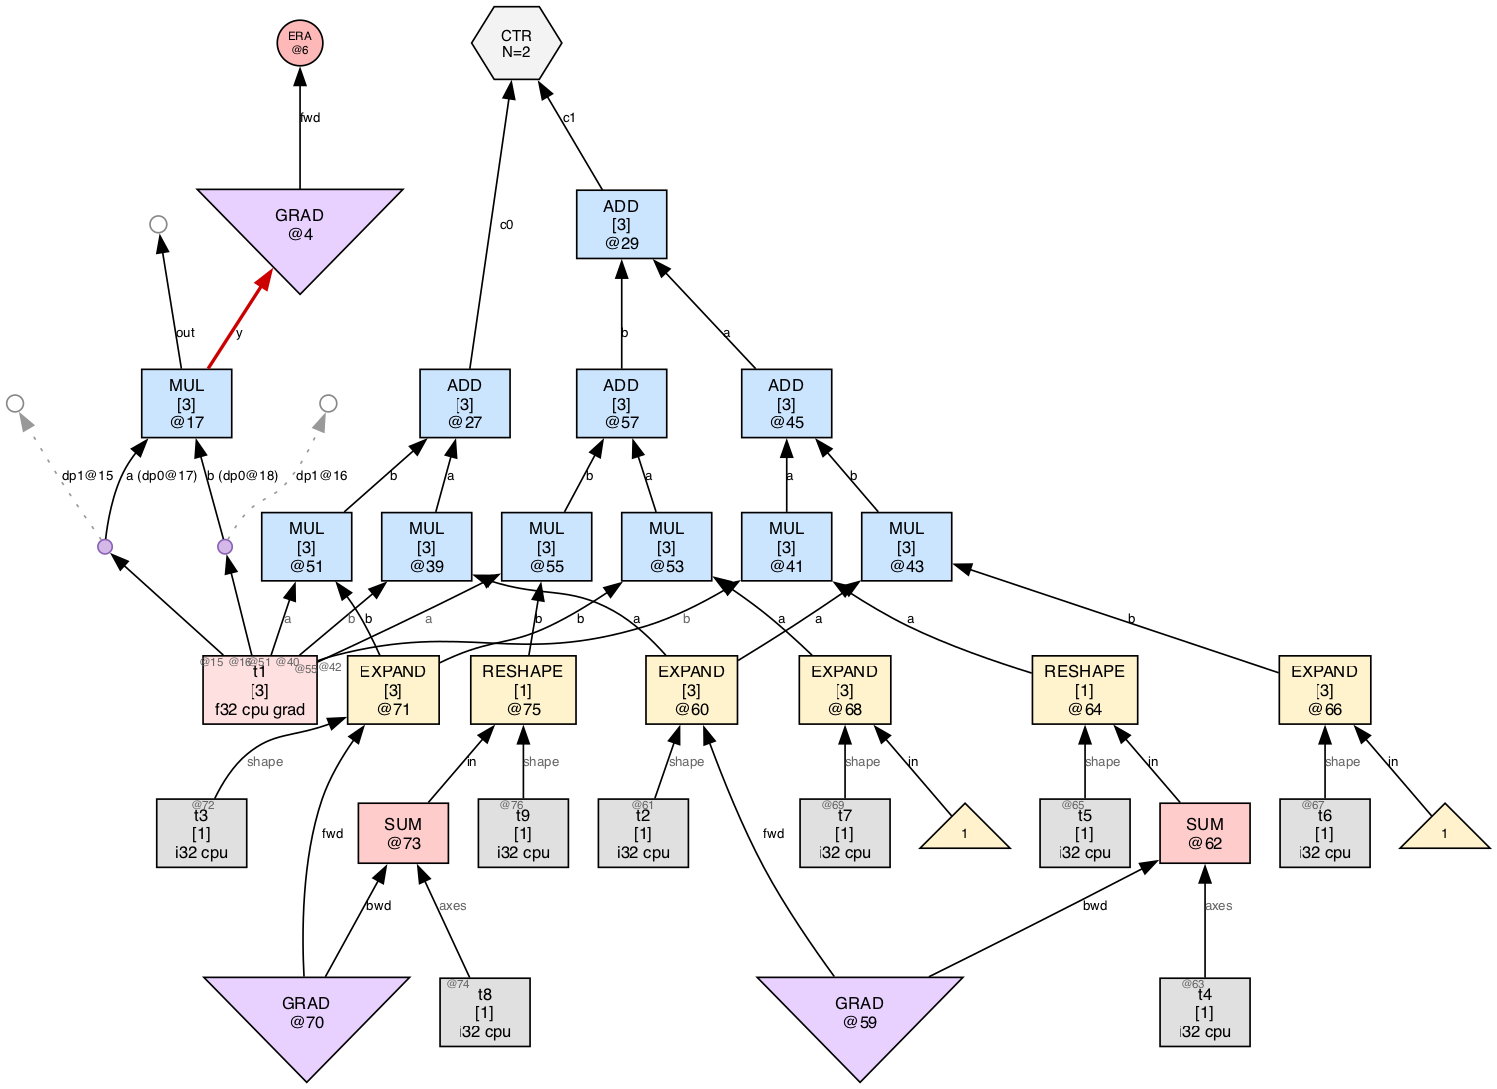
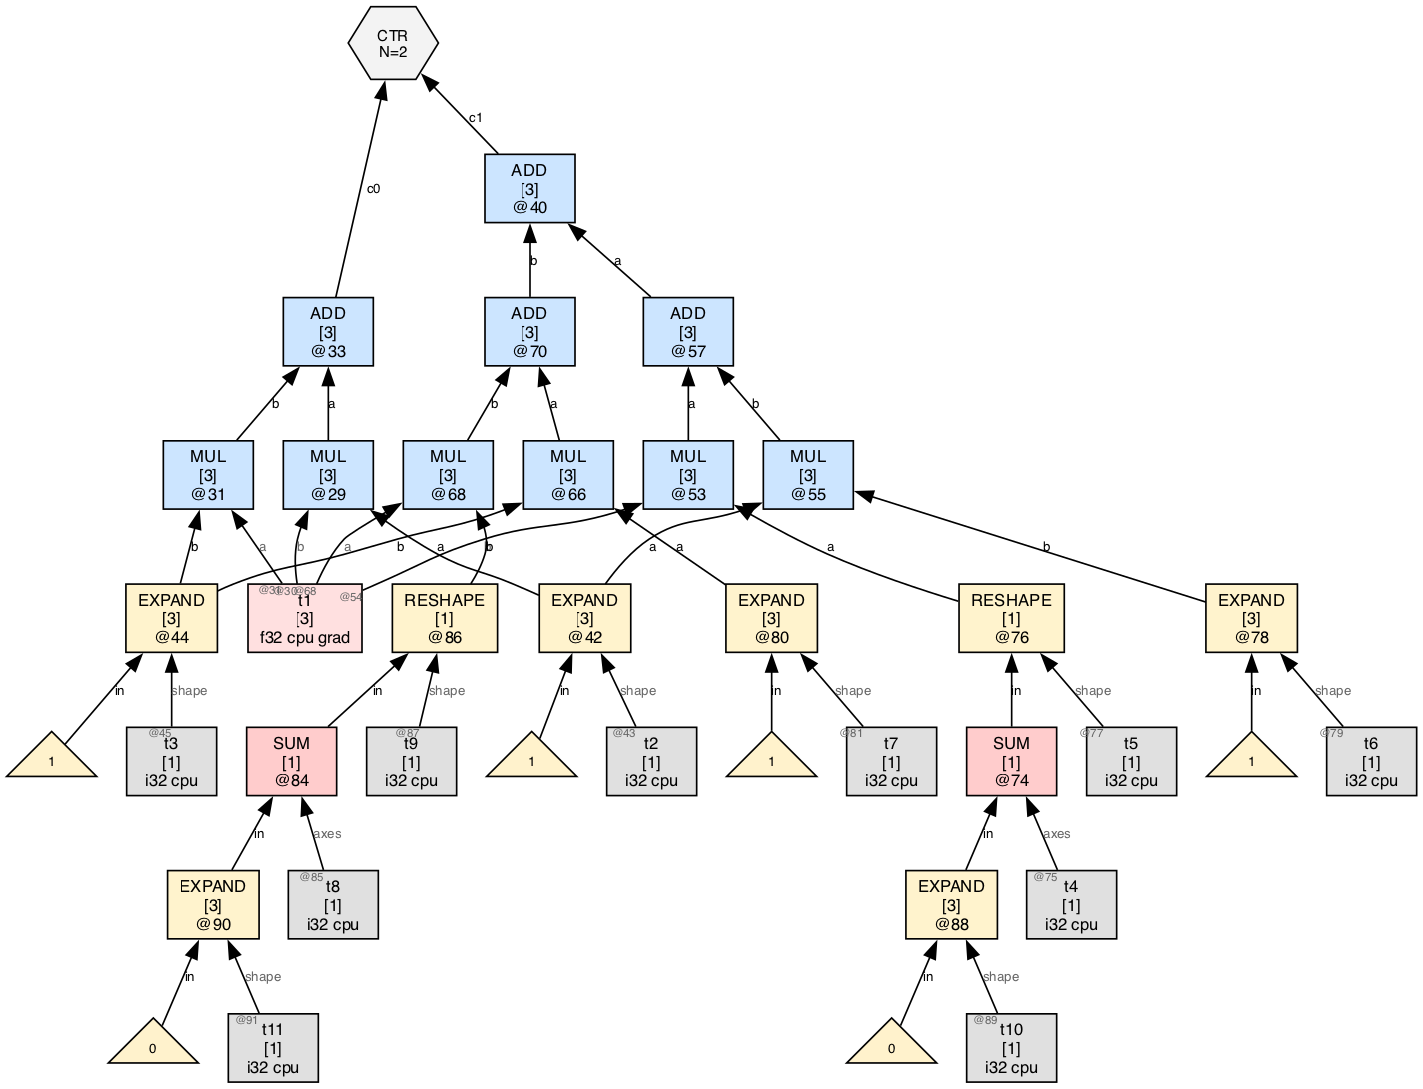
grad: UOP_GRAD2 NUM-constant rule + migrate second_derivative test
- Added rule: GRAD2(NUM(c), t) -> EXPAND(NUM(0), t.shape).  Needed for
  composed higher-order grad where inner results reduce to NUM.
- test_second_derivative now constructs via thvm_grad_u instead of
  thvm_grad_pair_target.  Post-sweep fully reduces (no residual
  GRAD2 nodes; d2(t*t)/dt2 = 2).

diff --git a/test/test_grad_rules.m b/test/test_grad_rules.m
@@ -292,17 +292,15 @@ static int test_second_derivative(void) {
     thvm_dup(ctx, thvm_fresh_label(ctx), a, &a0, &a1);
     Term y = thvm_op(ctx, UOP_MUL, a0, a1);
 
-    Term fwd1, bwd1;
-    thvm_grad_pair_target(ctx, a, y, &fwd1, &bwd1);
-    thvm_spawn_detached_era(ctx, fwd1);
-
-    Term fwd2, bwd2;
-    thvm_grad_pair_target(ctx, a, bwd1, &fwd2, &bwd2);
-
-    Term root = thvm_ctr(ctx, (Term[]){fwd2, bwd2}, 2);
+    // First derivative: GRAD2(y, a). Second derivative: GRAD2(first, a).
+    Term bwd1 = thvm_grad_u(ctx, y, a);
+    Term bwd1_0, bwd1_1;
+    thvm_dup(ctx, thvm_fresh_label(ctx), bwd1, &bwd1_0, &bwd1_1);
+    Term bwd2 = thvm_grad_u(ctx, bwd1_1, a);
+    Term root = thvm_ctr(ctx, (Term[]){bwd1_0, bwd2}, 2);
     thvm_eval(ctx, root);
     thvm_free(ctx);
-    const char *pre[]  = {"GRAD", "CTR", "MUL"};
+    const char *pre[]  = {"GRAD2", "CTR", "MUL"};
     const char *post[] = {"CTR"};
     int ok = topo_check("second_derivative", 0, pre, 3)
           && topo_check("second_derivative", 1, post, 1);

diff --git a/src/interact/_.c b/src/interact/_.c
@@ -1032,6 +1032,16 @@ inet_step:
                 Term tgt = heap_read(ctx, loc + 1);
                 if (term_is_sub(y))   y   = term_strip_sub(y);
                 if (term_is_sub(tgt)) tgt = term_strip_sub(tgt);
+                // NUM constant: d(const)/dt = 0 of target-shape.
+                if (term_tag(y) == TAG_NUM && term_tag(tgt) == TAG_TEN) {
+                    u32 ttid = (u32)term_val(tgt);
+                    Shape tsh = (ttid < ctx->tensor_count)
+                        ? ctx->tensors[ttid].view.shape : SHAPE(1);
+                    Term zero = term_num_f32(0.0f);
+                    Term out = (tsh.rank > 0 && !(tsh.rank == 1 && tsh.dims[0] == 1))
+                        ? thvm_expand(ctx, zero, tsh) : zero;
+                    ctx->itrs++; RETURN_REDUCED(out);
+                }
                 if (term_tag(y) == TAG_TEN && term_tag(tgt) == TAG_TEN) {
                     u32 ytid = (u32)term_val(y);
                     u32 ttid = (u32)term_val(tgt);
